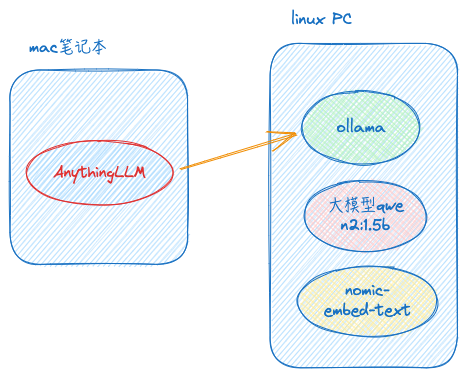
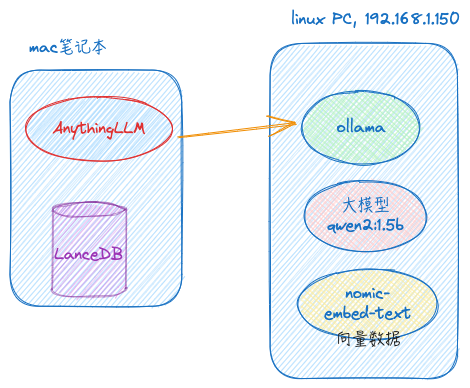
更新

diff --git a/_posts/2024-06-20-ollama-ai-models.md b/_posts/2024-06-20-ollama-ai-models.md
@@ -1,6 +1,6 @@
 ---
 layout: post
-title: ollama搭建个人知识库
+title: ollama搭建本地个人知识库
 categories: 大模型
 tags: 工具 大模型
 ---
@@ -8,7 +8,7 @@ tags: 工具 大模型
 * content
 {:toc}
 
-ollama搭建个人知识库
+ollama搭建本地个人知识库
 
 
 
@@ -28,6 +28,8 @@ ollama搭建个人知识库
 **基于ollama搭建**，最后结构如下：
 
 ![ollama-anythingLLM结构](/images/2024-06-20-ollama-anythingLLM.png)
+
+最后的最后：笔记本本地也安装ollama并下载模型，这才是"本地"
 
 ## 2. 安装ollama
 
@@ -66,7 +68,7 @@ tcp        0      0 127.0.0.1:11434         0.0.0.0:*               LISTEN      
 
 配置局域网内访问：
 
-.zshrc里添加，`export OLLAMA_HOST=0.0.0.0:11434`，然后重启服务，貌似没用
+~~.zshrc里添加，`export OLLAMA_HOST=0.0.0.0:11434`，然后重启服务，貌似没用~~ **失败**
 
 ```sh
 [root@xdlinux ➜ /root ]$ service ollama restart
@@ -76,7 +78,7 @@ tcp        0      0 127.0.0.1:11434         0.0.0.0:*               LISTEN      
 [root@xdlinux ➜ /root ]$
 ```
 
-在unit文件`/etc/systemd/system/ollama.service`里设置环境变量，每个环境变量各自一行
+在unit文件里设置环境变量`OLLAMA_HOST=0.0.0.0:11434`，每个环境变量各自一行（**成功**）
 
 ```sh
 [root@xdlinux ➜ /root ]$ systemctl cat ollama.service 
@@ -127,7 +129,7 @@ tcp6       0      0 :::11434                :::*                    LISTEN      
 
 到Ollama官网，点击右上角的Models即进入：[ollama library](https://ollama.com/library)。Ollama支持流行的开源大语言模型，包括llama2和它的众多衍生品。
 
-暂时使用阿里的通义千问：qwen2 1.5b 实验。
+暂时使用阿里的通义千问：`qwen2 1.5b` 实验。
 
 复制网页提示的命令，此处为`ollama run qwen2:1.5b`，到linux终端运行。也可以分两步：`ollama pull qwen2:1.5b`再`ollama pull qwen2:1.5b`
 
@@ -241,9 +243,9 @@ qwen2:0.5b             	6f48b936a09f	352 MB	18 minutes ago
 
 1、按提示进行必要设置，设置邮箱、工作空间名等
 
-2、进入workspace后，左下角有配置按钮，选择`LLM Preference`
+2、进入workspace后，左下角有配置按钮，选择`LLM Preference`选项卡
 
-3、`LLM Provider`的下拉中，选择`Ollama`，并进行配置后保存
+3、在`LLM Provider`的下拉中，选择`Ollama`，并进行配置后保存
 
 * Ollama Base URL：`http://192.168.1.150:11434`
 * Chat Model Selection：`qwen2:1.5b`
@@ -268,12 +270,75 @@ qwen2:0.5b             	6f48b936a09f	352 MB	18 minutes ago
 
 2、在`Vector Database Provider`下拉中，选择LanceDB作为后端。这是一个内置的向量数据库。
 
-## 6. 小结
+## 6. 使用AnythingLLM上传文档和问答
 
+1、基本问答：可以直接开始问答
 
+效果有点差，哪里配置还要优化下。
 
-## 7. 参考
+直接使用命令行效果还不错。
+
+2、上传文档
+
+![上传文档](/images/2024-06-21-anythingLLM-upload-file.png)
+
+上传完成后，选中相应的文档，并点击 Move to Workspcae。
+
+```sh
+Q：提炼文档里的网络知识
+A：根据提供的文档内容，我们可以总结出以下关于网络的知识点：
+
+1. 网络性能的实现：文档提到了如何实现网络性能，包括使用Nginx等服务器程序来提高网络性能。Nginx是一个流行的HTTP和反向代理Web服务器软件。
+
+2. TCP/IP协议：文档中提到了TCP/IP协议，这是一个广泛使用的通信协议，用于在网络之间传输数据包。
+
+3. 网络管理：文档还涉及了系统级别的网络配置、监控以及性能优化等方面的知识。例如，提供了如何设置安全限制（如fs.file-max和sysctl）的示例。
+
+4. 网络接口和地址：文档也提到了网络接口（如eth0, wlan0等）及其对应的IP地址。这通常用于网络设备上配置特定端口或接口的通信服务。
+
+5. 服务器进程：文档中提到如何使用epoll来提高Nginx处理并发请求的能力，这可能涉及如何在多线程环境中管理事件和资源。
+
+6. 网络编程和异步编程：文档提到了异步编程的概念，例如通过epoll_wait函数进行网络事件的实时处理。异步编程通常用于提高效率和减少系统阻塞现象。
+
+7. 模块化开发：文档中还涉及了模块化的编码实践，即在代码中分组不同的功能，并使用类或对象来组织这些功能。这有助于提高代码的可读性、复用性和扩展性。
+
+8. 网络测试和监控：文档中的部分内容可能涉及到网络测试工具（如Wireshark）的使用，以及如何通过监控系统性能指标（如CPU使用率、内存使用情况等）来发现潜在的问题。这些知识对于确保系统的稳定运行非常重要。
+```
+
+`Show Citations`里可以看到引用的数据。
+
+```sh
+Hide Citations
+理解了实现再谈网络性能_202202更新.pdf
+```
+
+切换为`Query`模式（不过上面没切换也能参考到文档）：
+
+点击齿轮图标，打开对应workspace的设置选项。选择Chat Settings，将对话模式更改为Query（默认是Chat）
+
+Query模式能够确保仅采用上传文档中的信息进行回答（而不会采用大模型本身的信息）。
+
+## 7. 构建"本地"应用
+
+最后发现有点不对，笔记本带出去就没法用了，于是本地再安装一下，流程一样：
+
+1. Mac上安装一下Ollama（会下载Ollama.app，440MB左右）
+2. 下载模型和向量模型（`qwen2:1.5b`和`nomic-embed-text`）
+3. 配置AnythingLLM到本机（上面各URL地址改成127.0.0.1）
+
+```sh
+➜  /Users/xd ollama list
+NAME                   	ID          	SIZE  	MODIFIED       
+nomic-embed-text:latest	0a109f422b47	274 MB	34 seconds ago	
+qwen2:1.5b             	f6daf2b25194	934 MB	6 minutes ago 
+```
+
+不过试了下效果，风扇呼呼的转，还是算了，改成了指向PC机。
+
+## 8. 参考
 
 1、[利用AI解读本地TXT、WORD、PDF文档](https://www.bilibili.com/read/cv33858702/)
 
-2、GPT
+2、[基于Ollama+AnythingLLM轻松打造本地大模型知识库](https://developer.aliyun.com/article/1490578)
+
+3、GPT

diff --git a/_posts/2024-06-16-excalidraw-cn-font.md b/_posts/2024-06-16-excalidraw-cn-font.md
@@ -118,6 +118,8 @@ unmap q
 unmap r
 unmap t
 unmap v
+unmap g
+unmap s
 ```
 
 ## 3. 参考
